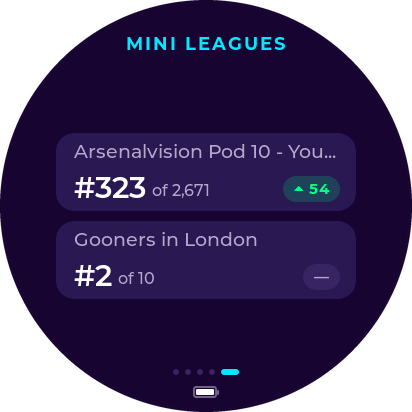
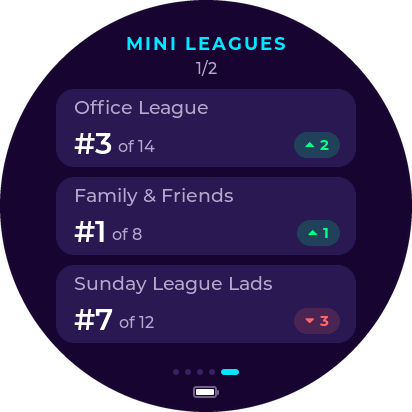
Use sample mini leagues with the sample demo team
The sample team now always shows sample leagues, so the README screenshots
(and anything filmed with the sample team) don't show real league names.
"Start with my team" still uses your real leagues.

Changed region(s): [[0.1165, 0.1456, 0.8738, 0.8447], [0.7573, 0.6699, 0.8155, 0.699]]

diff --git a/src/main.cpp b/src/main.cpp
@@ -6372,7 +6372,7 @@ struct DemoSampleLeague {
     int lastRank;
     int size;
 };
-// Used when the real entry has no mini leagues (or there is no FPL data yet).
+// Used with the sample team, or when the real entry has no mini leagues (or there is no FPL data yet).
 static const DemoSampleLeague kDemoSampleLeagues[] = {
     {"Office League", 3, 5, 14}, {"Family & Friends", 1, 2, 8}, {"Sunday League Lads", 7, 4, 12}, {"Uni Mates", 2, 2, 10},
 };
@@ -6438,7 +6438,7 @@ static int demoPlayerCost(const TeamPick &pick, const IdleScreensData &real) {
 
 // Between-gameweeks screens for the demo: a rank history ending at the demo rank, price changes for the demo
 // squad and the watchlist (a rise, a fall, a hold and a lock, so every state shows), and the real mini leagues
-// (or sample ones). Caller holds demoMutex.
+// (sample ones with the sample team). Caller holds demoMutex.
 static void publishDemoIdleScreensLocked() {
     static DisplaySettings settings;  // guarded by demoMutex
     displaySettingsGet(settings);
@@ -6525,7 +6525,7 @@ static void publishDemoIdleScreensLocked() {
     }
     d.hasPrices = true;
 
-    if (real.hasLeagues && real.leagueCount > 0) {
+    if (s.source == DemoSource::MyTeam && real.hasLeagues && real.leagueCount > 0) {
         d.leagueCount = real.leagueCount;
         for (size_t i = 0; i < real.leagueCount; ++i) {
             d.leagues[i] = real.leagues[i];

diff --git a/README.md b/README.md
@@ -175,8 +175,8 @@ pauses while the demo runs. **Stop demo**, or restarting the device, brings back
   between-gameweeks tour) that play without you touching anything. Keep the page open while one runs.
 
 The between-gameweeks screens get demo data too: a rank history that ends at the demo rank, and price changes for the
-squad and watchlist that include a rise, a fall, no change and a locked price. Mini leagues are your real ones, or
-sample leagues if you have none.
+squad and watchlist that include a rise, a fall, no change and a locked price. With your own team the mini leagues
+are your real ones. With the sample team, or if you have none, they're sample leagues.
 
 ## Serial commands
 
